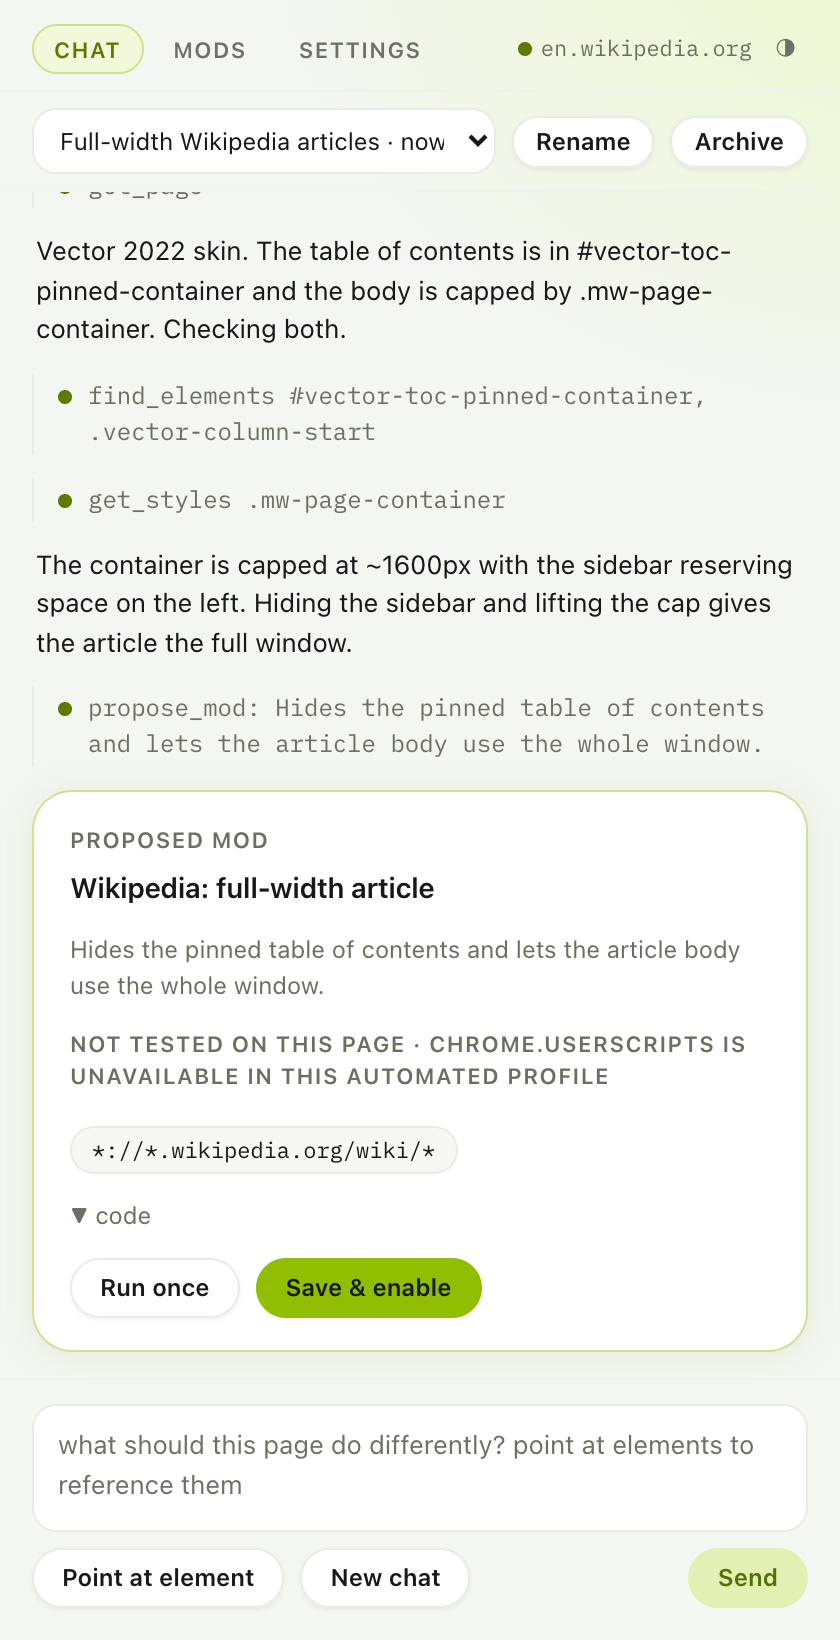
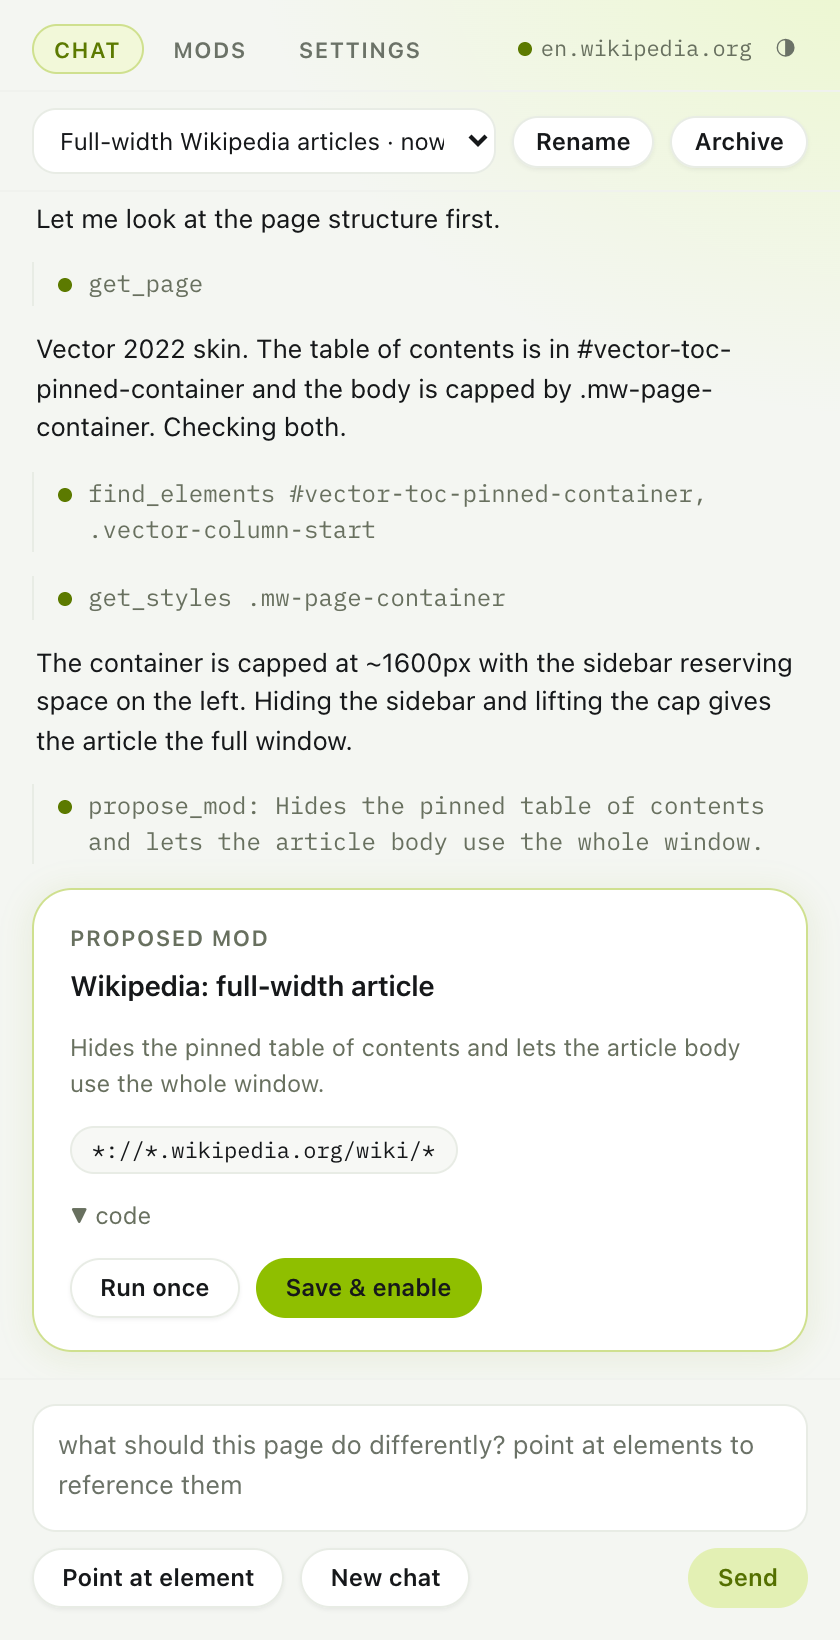
Kill the theme flash properly, and stop the toggle disturbing the panel
Two defects the --theme flow caught after the first commit, both real.

The dark flash was still there, measurably. Sampling --bg-app on every frame
of a reload showed #0a0d0b at 9ms and #f4f6f2 at 14ms: a ~5ms frame of the
wrong palette on every open, for anyone whose choice differs from their OS.

Applying the mirror from the entry module cannot fix that. A `type="module"`
script is deferred by definition, so the browser is free to paint the
stylesheet's default first, and no amount of import ordering changes it — the
side-effect import I tried first still lost, because the module graph has to
be fetched and evaluated before anything in it runs.

What works is a classic, non-deferred script placed ahead of the stylesheet
link. It has to be a separate file (MV3 forbids inline scripts) and it has to
live in public/ as plain .js, because the bundler only processes module
scripts and silently drops a classic <script src> pointing at a .ts file.
After the change every sampled frame is light: no dark frame at all.

Three unit tests pin the parts that would fail silently: the mirror key is
duplicated, so they must agree; the script must import nothing; and both pages
must load it before their stylesheet and not as a module.

The toggle also disturbed the panel it sits in. Its storage listener called
applyTheme on any settings write, not just a theme change, and cycle() did a
read-modify-write of the whole settings object from a possibly stale read. The
[…]

diff --git a/entrypoints/sidepanel/components/ThemeToggle.tsx b/entrypoints/sidepanel/components/ThemeToggle.tsx
@@ -11,40 +11,60 @@
 // cursor rather than after a round trip.
 
 import { useEffect, useState } from 'react';
-import { loadSettings, saveSettings } from '@/lib/settings';
-import { THEME_LABEL, applyTheme, nextTheme, storedTheme } from '@/lib/theme';
+import { saveThemeChoice } from '@/lib/settings';
+import { THEME_LABEL, applyTheme, currentTheme, nextTheme, storedTheme } from '@/lib/theme';
 import type { ThemeChoice } from '@/lib/types';
 
 export function ThemeToggle() {
-  const [theme, setTheme] = useState<ThemeChoice | null>(null);
+  /**
+   * Seeded from the document rather than from storage.
+   *
+   * The theme is already on <html> before React runs (lib/theme.ts applies the synchronous mirror
+   * in the entry module), so the right glyph is known at first render. Starting from null and
+   * filling it in after an async read would mount this control one render late, and that extra
+   * render of the tab bar lands in the middle of the panel's chat restore.
+   */
+  const [theme, setTheme] = useState<ThemeChoice>(() => currentTheme());
 
+  // The mirror can be stale — another page may have changed the theme since this one last ran — so
+  // the authoritative value is still read, and applied only if it actually differs.
   useEffect(() => {
-    void storedTheme().then(setTheme);
+    void storedTheme().then((saved) => {
+      setTheme((current) => {
+        if (current === saved) return current;
+        applyTheme(saved);
+        return saved;
+      });
+    });
   }, []);
 
-  // Another page (Settings, or a second extension page) changing the theme moves this control too.
+  // Another page (the Settings control, or a second extension page) changing the theme moves this
+  // control too.
+  //
+  // The guard matters more than it looks. chrome.storage.onChanged fires in every extension page
+  // for every key, and `settings` is rewritten in full by saveSettings, so this runs on writes that
+  // did not touch the theme at all. Re-rendering unconditionally from here put a render of the tab
+  // bar into the middle of a live chat's transcript restore, and the panel lost the chat.
   useEffect(() => {
     const onChanged = (changes: Record<string, chrome.storage.StorageChange>, area: string) => {
       if (area !== 'local' || !changes.settings) return;
       const next = (changes.settings.newValue as { theme?: ThemeChoice } | undefined)?.theme;
-      if (next === 'system' || next === 'dark' || next === 'light') {
-        setTheme(next);
+      if (next !== 'system' && next !== 'dark' && next !== 'light') return;
+      setTheme((current) => {
+        if (current === next) return current; // no change: do not touch the document or re-render
         applyTheme(next);
-      }
+        return next;
+      });
     };
     chrome.storage.onChanged.addListener(onChanged);
     return () => chrome.storage.onChanged.removeListener(onChanged);
   }, []);
 
-  // Nothing is rendered until the saved choice is known, so the glyph never shows the wrong mode
-  // for a frame and then correct itself.
-  if (theme === null) return null;
-
   const cycle = async () => {
     const next = nextTheme(theme);
     setTheme(next);
-    applyTheme(next);
-    await saveSettings({ ...(await loadSettings()), theme: next });
+    applyTheme(next); // instant: the panel restyles under the cursor
+    await saveThemeChoice(next);
   };
 
   return (

diff --git a/test/theme.test.ts b/test/theme.test.ts
@@ -2,8 +2,55 @@
 // saved choice survives the change of default from 'dark' to 'system'.
 
 import assert from 'node:assert/strict';
+import fs from 'node:fs';
+import path from 'node:path';
+import { fileURLToPath } from 'node:url';
 import { test } from 'node:test';
 import { DEFAULT_SETTINGS, THEME_CYCLE, nextTheme, resolveTheme } from '../lib/types.ts';
+
+const ROOT = path.join(path.dirname(fileURLToPath(import.meta.url)), '..');
+
+test('the pre-paint script and lib/theme.ts agree on the mirror key', () => {
+  // public/theme-boot.js runs before the stylesheet, as a classic script, and imports nothing — it
+  // cannot share a constant with lib/theme.ts without pulling in the module graph it exists to
+  // avoid. So the key is written in both places. If they ever drift, the pre-paint script reads a
+  // key nothing writes, and the dark flash comes back silently on a path nothing else covers.
+  const theme = fs.readFileSync(path.join(ROOT, 'lib', 'theme.ts'), 'utf8');
+  const boot = fs.readFileSync(path.join(ROOT, 'public', 'theme-boot.js'), 'utf8');
+
+  const inTheme = /MIRROR_KEY\s*=\s*'([^']+)'/.exec(theme)?.[1];
+  const inBoot = /localStorage\.getItem\('([^']+)'\)/.exec(boot)?.[1];
+
+  assert.ok(inTheme, 'no MIRROR_KEY found in lib/theme.ts');
+  assert.ok(inBoot, 'no localStorage.getItem key found in public/theme-boot.js');
+  assert.equal(inBoot, inTheme);
+});
+
+test('the pre-paint script stays dependency-free', () => {
+  // The moment this file imports anything it stops being able to run before the first paint, which
+  // is its entire reason for existing.
+  const boot = fs.readFileSync(path.join(ROOT, 'public', 'theme-boot.js'), 'utf8');
+  assert.ok(!/^\s*import\s/m.test(boot), 'public/theme-boot.js must not import anything');
+  assert.ok(!/\brequire\s*\(/.test(boot), 'public/theme-boot.js must not require anything');
+});
+
+test('every page loads the pre-paint script before its stylesheet', () => {
+  // A stylesheet applied before the theme attribute is on <html> is exactly the flash. Both pages
+  // are checked, because the install page is a second entry point that is easy to forget.
+  for (const page of ['entrypoints/sidepanel/index.html', 'entrypoints/install/index.html']) {
+    const html = fs.readFileSync(path.join(ROOT, page), 'utf8');
+    const script = html.indexOf('theme-boot.js');
+    const sheet = html.indexOf('rel="stylesheet"');
+    assert.ok(script !== -1, `${page} does not load the pre-paint script`);
+    assert.ok(sheet !== -1, `${page} has no stylesheet link`);
+    assert.ok(script < sheet, `${page} loads its stylesheet before the pre-paint script`);
+    // A module script is deferred, which would put it back after the first paint.
+    assert.ok(
+      !/<script[^>]*type=["']module["'][^>]*theme-boot/.test(html),
+      `${page} loads the pre-paint script as a module, which is deferred past the first paint`,
+    );
+  }
+});
 
 test('the toggle cycles Dark -> Light -> System -> Dark', () => {
   assert.equal(nextTheme('dark'), 'light');

diff --git a/public/theme-boot.js b/public/theme-boot.js
@@ -1,0 +1,41 @@
+/*
+ * Applies the saved theme before the stylesheet is applied, let alone painted.
+ *
+ * chrome.storage is async and cannot answer before the first paint, so for anyone whose saved
+ * choice differs from their OS there is a frame of the wrong palette — measured at roughly 5ms of
+ * dark on a light panel — every single time a page is opened. lib/theme.ts therefore mirrors every
+ * applied choice into localStorage, which IS synchronous, and this reads that mirror.
+ *
+ * Three constraints decide the unusual shape of this file, and all three matter:
+ *
+ *   1. It is a CLASSIC script, not a module. A module script is deferred by definition: it runs
+ *      after the browser is already free to paint, and no amount of import ordering changes that.
+ *      A classic script blocks the parser where it sits, which is the only way to be sure.
+ *   2. It is loaded BEFORE the stylesheet link in each page's <head>, so the attribute is on <html>
+ *      before any CSS has been applied.
+ *   3. It lives in public/ as plain .js rather than in entrypoints/ as .ts, because the bundler
+ *      only processes module scripts — a classic <script src> pointing at a .ts file is simply not
+ *      emitted. public/ is copied verbatim, so what is written here is what ships.
+ *
+ * MV3's content security policy forbids an inline script, which is why this is a file at all. It
+ * imports nothing and must stay that way: pulling in the module graph is the cost it exists to
+ * avoid. The localStorage key is duplicated from lib/theme.ts, and test/theme.test.ts asserts the
+ * two stay equal.
+ *
+ * An empty mirror (a fresh profile, cleared storage) writes nothing and leaves the document on the
+ * CSS default — which is System, the right answer for a profile with no choice saved.
+ */
+try {
+  var saved = localStorage.getItem('usermods.theme');
+  var root = document.documentElement;
+  if (saved === 'dark' || saved === 'light') {
+    root.setAttribute('data-theme', saved);
+    root.style.colorScheme = saved;
+  } else if (saved === 'system') {
+    root.removeAttribute('data-theme');
+    root.style.colorScheme = 'light dark';
+  }
+} catch (e) {
+  // Storage partitioned or disabled: the async read in the entry module still settles the theme,
+  // at the cost of the one frame this exists to save.
+}

diff --git a/lib/theme.ts b/lib/theme.ts
@@ -23,16 +23,10 @@ export { THEME_CYCLE, THEME_LABEL, nextTheme } from './types';
  * chrome.storage stays the source of truth: it is what Settings writes, what syncs across pages,
  * and what survives this mirror being cleared. This is a cache, and it is allowed to be missing.
  */
+// Duplicated from lib/theme-boot.ts rather than imported: importing that module would run its side
+// effect (and drag it into every bundle that touches the theme), which is exactly what it is built
+// to avoid. test/theme.test.ts asserts the two strings stay equal.
 const MIRROR_KEY = 'usermods.theme';
-
-function readMirror(): ThemeChoice | null {
-  try {
-    const v = localStorage.getItem(MIRROR_KEY);
-    return v === 'system' || v === 'dark' || v === 'light' ? v : null;
-  } catch {
-    return null; // storage partitioned or disabled: fall back to the async read
-  }
-}
 
 function writeMirror(choice: ThemeChoice): void {
   try {
@@ -52,16 +46,15 @@ export function applyTheme(choice: ThemeChoice, doc: Document = document): void 
 }
 
 /**
- * Put the last known theme on the document immediately, with no await.
+ * What this document is wearing right now, read off the element itself.
  *
- * Called at the top of every extension page's entry module, which still runs before the first
- * paint. If the mirror is empty (a fresh profile, or cleared storage) nothing is written and the
- * document stays on the CSS default — which is System, the right guess for a profile with no
- * choice saved.
+ * No attribute means System, which is exactly what the CSS falls back to. Lets a control render the
+ * correct state on its very first render, with no async read and so no extra render of whatever
+ * surrounds it.
  */
-export function applyMirroredTheme(doc: Document = document): void {
-  const choice = readMirror();
-  if (choice) applyTheme(choice, doc);
+export function currentTheme(doc: Document = document): ThemeChoice {
+  const v = doc.documentElement.getAttribute('data-theme');
+  return v === 'dark' || v === 'light' ? v : 'system';
 }
 
 /** Read the saved choice, applying the same old-profile rule loadSettings uses. */

diff --git a/entrypoints/sidepanel/main.tsx b/entrypoints/sidepanel/main.tsx
@@ -1,18 +1,13 @@
 import React from 'react';
 import ReactDOM from 'react-dom/client';
-import { applyMirroredTheme, applyStoredTheme } from '@/lib/theme';
+import { applyStoredTheme } from '@/lib/theme';
 import { App } from './App';
 
-// Two steps, because chrome.storage cannot answer before the first paint.
-//
-// The synchronous mirror goes on first and is what makes the first frame correct: it reads
-// localStorage, so a panel whose saved theme differs from the OS never shows the wrong palette.
-//
-// The authoritative read then follows, deliberately NOT awaited before render. Awaiting it would
-// make this module's evaluation — and with it DOMContentLoaded, since a module script blocks it —
-// wait on chrome.storage, which delays the whole page for the one case the mirror already covers.
-// It corrects the theme if the mirror was stale, which is a no-op almost every time.
-applyMirroredTheme();
+// The authoritative read, deliberately NOT awaited before render. theme-boot.ts (a classic script
+// in index.html, ahead of the stylesheet) has already put the right palette on the document, so
+// awaiting chrome.storage here would only hold up this module's evaluation — and with it
+// DOMContentLoaded — for a case that is already handled. This corrects a stale mirror, which is a
+// no-op almost every time.
 void applyStoredTheme();
 
 ReactDOM.createRoot(document.getElementById('root')!).render(

diff --git a/lib/settings.ts b/lib/settings.ts
@@ -1,4 +1,4 @@
-import { DEFAULT_SETTINGS, resolveTheme, type Settings } from './types';
+import { DEFAULT_SETTINGS, resolveTheme, type Settings, type ThemeChoice } from './types';
 
 const KEY = 'settings';
 
@@ -11,4 +11,18 @@ export async function loadSettings(): Promise<Settings> {
 
 export async function saveSettings(s: Settings): Promise<void> {
   await chrome.storage.local.set({ [KEY]: s });
+}
+
+/**
+ * Persist just the theme, leaving every other field exactly as stored.
+ *
+ * The compact toggle must not do a read-modify-write of the whole settings object: it can be
+ * clicked at any moment, including while a chat run or the Settings screen is writing, and a full
+ * rewrite from a stale read would silently undo whatever landed in between. Re-reading immediately
+ * before the write keeps the window as small as chrome.storage allows.
+ */
+export async function saveThemeChoice(theme: ThemeChoice): Promise<void> {
+  const r = await chrome.storage.local.get(KEY);
+  const stored = (r[KEY] as Partial<Settings> | undefined) ?? {};
+  await chrome.storage.local.set({ [KEY]: { ...stored, theme } });
 }

diff --git a/entrypoints/install/main.tsx b/entrypoints/install/main.tsx
@@ -8,7 +8,7 @@ import React, { useEffect, useState } from 'react';
 import ReactDOM from 'react-dom/client';
 import { isInstallableUrl, scriptUrlFromLocation } from '@/lib/installurl';
 import { rpc } from '@/lib/rpc';
-import { applyMirroredTheme, applyStoredTheme } from '@/lib/theme';
+import { applyStoredTheme } from '@/lib/theme';
 import type { ScriptPreview } from '@/lib/types';
 import { InstallPreview } from '../sidepanel/components/InstallPreview';
 import { ThemeToggle } from '../sidepanel/components/ThemeToggle';
@@ -93,10 +93,8 @@ function InstallPage() {
   );
 }
 
-// Same theme the side panel is wearing, settled before the first paint: the synchronous mirror is
-// what the first frame uses, and the authoritative read follows without blocking this module's
-// evaluation (and so DOMContentLoaded). See the note in sidepanel/main.tsx.
-applyMirroredTheme();
+// The authoritative read, correcting the mirror the import above already applied. Not awaited: see
+// the note in sidepanel/main.tsx.
 void applyStoredTheme();
 
 ReactDOM.createRoot(document.getElementById('root')!).render(

diff --git a/entrypoints/sidepanel/index.html b/entrypoints/sidepanel/index.html
@@ -16,6 +16,18 @@
     <meta charset="UTF-8" />
     <meta name="viewport" content="width=device-width, initial-scale=1.0" />
     <title>usermods</title>
+    <!--
+      A classic, non-module, non-deferred script, deliberately placed BEFORE the stylesheet.
+
+      A `type="module"` script is deferred by definition: the browser is free to paint the
+      stylesheet's default palette before it runs, which is a visible flash of the wrong theme for
+      anyone whose saved choice differs from their OS. A classic script blocks parsing at this
+      point, so the saved theme is on <html> before any CSS has been applied, let alone painted.
+
+      MV3's content security policy forbids an INLINE script, hence the separate file. It is a few
+      lines and imports nothing — see public/theme-boot.js.
+    -->
+    <script src="/theme-boot.js"></script>
     <link rel="stylesheet" href="./styles.css" />
   </head>
   <body>

diff --git a/entrypoints/install/index.html b/entrypoints/install/index.html
@@ -12,6 +12,9 @@
     <meta charset="UTF-8" />
     <meta name="viewport" content="width=device-width, initial-scale=1.0" />
     <title>Install userscript — usermods</title>
+    <!-- Ahead of the stylesheet, and a classic script so it is not deferred past the first paint.
+         See public/theme-boot.js. -->
+    <script src="/theme-boot.js"></script>
     <link rel="stylesheet" href="../sidepanel/styles.css" />
   </head>
   <body>
